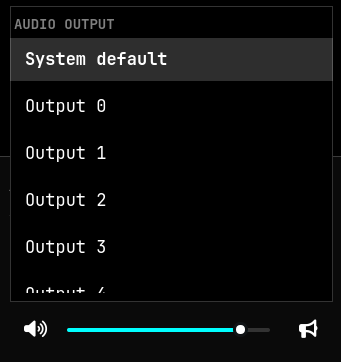
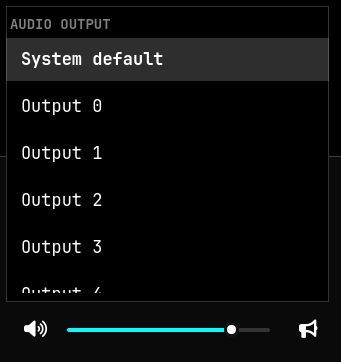
fix: stabilize player controls at the wrap boundary

diff --git a/RadioAtlas.qml b/RadioAtlas.qml
@@ -2257,7 +2257,7 @@ Item {
               columns: width < transportControls.implicitWidth
                 + outputControls.implicitWidth - volumeSlider.Layout.preferredWidth
                 + volumeSlider.Layout.minimumWidth + columnSpacing ? 1 : 2
-              columnSpacing: Style.spacing.xs
+              columnSpacing: Style.spacing.xs + Style.spacing.md
               rowSpacing: Style.spacing.xs
 
               Row {
@@ -2323,7 +2323,6 @@ Item {
 
                 Button {
                   id: muteButton
-                  Layout.leftMargin: playerControls.columns > 1 ? Style.spacing.md : 0
                   iconText: root.playerMuted || root.playerVolume === 0 ? "\uf026" : "\uf028"
                   Layout.preferredWidth: playerIconMetrics.muteWidth
                   Layout.preferredHeight: playerIconMetrics.buttonHeight
